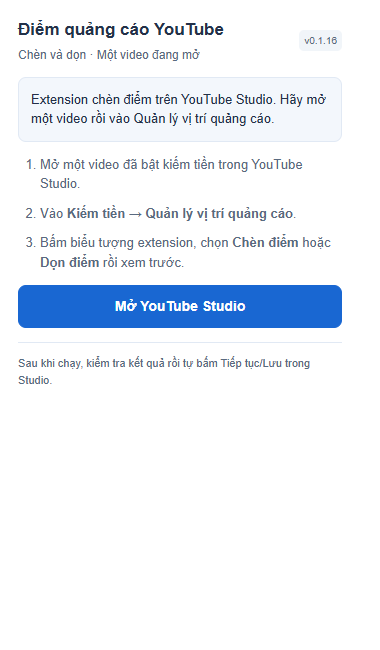
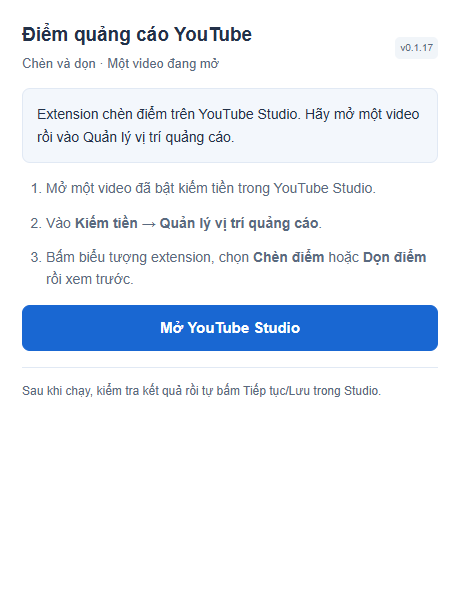
Widen guidance popup and fix initial sizing in v0.1.17

diff --git a/extension/popup.css b/extension/popup.css
@@ -1,13 +1,14 @@
 * { box-sizing: border-box; }
-body { margin: 0; width: 360px; max-width: 100vw; font: 14px/1.5 Arial, sans-serif; color: #233149; background: #fff; color-scheme: light; }
-main { padding: 18px; }
+html { width: 460px; }
+body { margin: 0; width: 100%; font: 15px/1.6 Arial, sans-serif; color: #233149; background: #fff; color-scheme: light; }
+main { padding: 22px; }
 header { display: flex; align-items: center; gap: 8px; }
-h1 { font-size: 17px; line-height: 1.4; margin: 0; }
-.subtitle { font-size: 12px; color: #596a80; margin: 4px 0 0; }
+h1 { font-size: 19px; line-height: 1.4; margin: 0; }
+.subtitle { font-size: 13px; color: #596a80; margin: 5px 0 0; }
 #version { font-size: 10px; color: #596a80; background: #f1f5f9; border-radius: 5px; padding: 3px 5px; margin-left: auto; }
-#status { padding: 12px; border: 1px solid #e1e9f4; border-radius: 8px; background: #f3f7fc; white-space: pre-line; overflow-wrap: anywhere; font-size: 13px; }
+#status { padding: 14px; border: 1px solid #e1e9f4; border-radius: 8px; background: #f3f7fc; white-space: pre-line; overflow-wrap: anywhere; font-size: 14px; }
 #status[data-tone="error"] { background: #fff1f0; border-color: #efc9c7; color: #9b2723; }
-ol { padding-left: 22px; font-size: 13px; color: #596a80; } li { margin-bottom: 10px; }
+ol { padding-left: 24px; font-size: 14px; color: #596a80; } li { margin-bottom: 12px; }
 a, button { display: block; width: 100%; min-height: 42px; border: 1px solid #c4d2e3; border-radius: 8px; padding: 10px; font: inherit; font-weight: 600; text-align: center; }
 a { background: #1967d2; color: white; text-decoration: none; border-color: #1967d2; }
 button { margin-top: 8px; color: #233149; background: #f8fafc; cursor: pointer; }
@@ -15,5 +16,5 @@ button:disabled { opacity: .5; cursor: default; }
 a:focus-visible, button:focus-visible { outline: 2px solid #1967d2; outline-offset: 2px; }
 #copy-status { color: #596a80; font-size: 12px; }
 textarea { width: 100%; height: 130px; margin-top: 8px; padding: 8px; border: 1px solid #c4d2e3; border-radius: 8px; font: 11px monospace; }
-.save-note { margin: 14px 0 0; padding-top: 12px; border-top: 1px solid #e1e9f4; color: #596a80; font-size: 11px; }
+.save-note { margin: 16px 0 0; padding-top: 14px; border-top: 1px solid #e1e9f4; color: #596a80; font-size: 12px; }
 [hidden] { display: none !important; }

diff --git a/extension/popup.html b/extension/popup.html
@@ -8,7 +8,7 @@
 </head>
 <body>
 <main>
-  <header><div><h1>Điểm quảng cáo YouTube</h1><p class="subtitle">Chèn và dọn · Một video đang mở</p></div><span id="version">v0.1.16</span></header>
+  <header><div><h1>Điểm quảng cáo YouTube</h1><p class="subtitle">Chèn và dọn · Một video đang mở</p></div><span id="version">v0.1.17</span></header>
   <p id="status" role="status" aria-live="polite">Đang kiểm tra trang đang mở…</p>
   <section id="guide" hidden>
     <ol>

diff --git a/extension/studio.js b/extension/studio.js
@@ -615,7 +615,7 @@
   function diagnostics() {
     const { scope } = editorScope();
     return {
-      version: "0.1.16",
+      version: "0.1.17",
       lastInsertion,
       editor: scope.localName,
       controls: query(scope, BUTTONS).filter(visible).map((node) => ({ tag: node.localName, label: node.getAttribute("aria-label") || node.getAttribute("title") || node.textContent.trim().slice(0, 100) })),

diff --git a/extension/popup.js b/extension/popup.js
@@ -1,7 +1,7 @@
 (function () {
   "use strict";
   const $ = (id) => document.getElementById(id);
-  const VERSION = globalThis.chrome?.runtime?.getManifest?.()?.version || "0.1.16";
+  const VERSION = globalThis.chrome?.runtime?.getManifest?.()?.version || "0.1.17";
   $("version").textContent = `v${VERSION}`;
   let revision = 0;
   let report = null;

diff --git a/extension/content.js b/extension/content.js
@@ -8,7 +8,7 @@
     return;
   }
   const P = globalThis.MidrollPlanner;
-  const VERSION = "0.1.16";
+  const VERSION = "0.1.17";
   const host = document.createElement("div");
   globalThis.MidrollPanelHost = host;
   host.id = HOST_ID;

diff --git a/README.md b/README.md
@@ -1,14 +1,14 @@
 # Tự động chèn và dọn điểm quảng cáo YouTube
 
-Bản **0.1.16** cho Chrome từ 118 và YouTube Studio tiếng Việt, một video đang mở. Thời lượng đọc tự động; bạn nhập khoảng cách và đoạn đầu/cuối bằng giây. Khi chèn, giữ mọi điểm cũ. Khi dọn, xóa điểm thủ công trong các đoạn đầu/cuối bạn nhập, Đang xem xét/có cảnh báo và lọc các điểm còn lại quá gần, giữ điểm sớm hơn. Luôn giữ mọi điểm tự động và điểm chưa rõ loại. Bạn xem lại và tự Lưu.
+Bản **0.1.17** cho Chrome từ 118 và YouTube Studio tiếng Việt, một video đang mở. Thời lượng đọc tự động; bạn nhập khoảng cách và đoạn đầu/cuối bằng giây. Khi chèn, giữ mọi điểm cũ. Khi dọn, xóa điểm thủ công trong các đoạn đầu/cuối bạn nhập, Đang xem xét/có cảnh báo và lọc các điểm còn lại quá gần, giữ điểm sớm hơn. Luôn giữ mọi điểm tự động và điểm chưa rõ loại. Bạn xem lại và tự Lưu.
 
-Giao diện mới cố định tab và thanh thao tác, gom cài đặt theo chức năng, quy đổi giây sang phút và ghi rõ lý do xóa. Nút chạy hiển thị số điểm trong kế hoạch; khi chạy có tiến độ đã xác nhận và nút Dừng. Tab Dọn giải thích điểm thủ công quá gần điểm tự động ở trước hoặc sau đều được chọn xóa. Sau chạy, giữ kế hoạch để đối chiếu và yêu cầu xem trước lại trước lượt tiếp theo.
+Bảng hướng dẫn ngoài trang chèn quảng cáo rộng 460 px, chữ và khoảng cách lớn hơn. Giao diện cố định tab và thanh thao tác, gom cài đặt theo chức năng, quy đổi giây sang phút và ghi rõ lý do xóa. Nút chạy hiển thị số điểm trong kế hoạch; khi chạy có tiến độ đã xác nhận và nút Dừng. Tab Dọn giải thích điểm thủ công quá gần điểm tự động ở trước hoặc sau đều được chọn xóa. Sau chạy, giữ kế hoạch để đối chiếu và yêu cầu xem trước lại trước lượt tiếp theo.
 
 [Hướng dẫn cài và dùng](extension/HUONG-DAN.md) · [Rà soát toàn bộ](artifacts/AUDIT-0.1.14.md) · [Kiểm chứng](artifacts/VERIFICATION.md) · [Lịch sử](CHANGELOG.md).
 
 ## Tải bản cài
 
-Mở [GitHub Releases](https://github.com/HurioFly/youtube-midroll-manager/releases/latest), tải `Chen-quang-cao-YouTube-v0.1.16.zip`, giải nén vào một thư mục cố định. Trong Chrome, mở `chrome://extensions`, bật **Chế độ dành cho nhà phát triển**, chọn **Tải tiện ích đã giải nén** rồi chọn thư mục có `manifest.json`.
+Mở [GitHub Releases](https://github.com/HurioFly/youtube-midroll-manager/releases/latest), tải `Chen-quang-cao-YouTube-v0.1.17.zip`, giải nén vào một thư mục cố định. Trong Chrome, mở `chrome://extensions`, bật **Chế độ dành cho nhà phát triển**, chọn **Tải tiện ích đã giải nén** rồi chọn thư mục có `manifest.json`.
 
 Repository và bản phát hành là **riêng tư**, cần đăng nhập tài khoản được cấp quyền để tải. Đây là bản phát hành GitHub để cài thủ công. Khi cập nhật, lưu chỉnh sửa đang dở, thay tệp trong thư mục extension, bấm **Tải lại** extension rồi F5 Studio.
 

diff --git a/CHANGELOG.md b/CHANGELOG.md
@@ -1,5 +1,7 @@
 # Lịch sử thay đổi
 
+0.1.17: mở rộng bảng hướng dẫn popup lên 460 px, tăng cỡ chữ và khoảng cách. Đặt chiều rộng cố định trên phần tử gốc, bỏ giới hạn theo viewport để tránh co hẹp khi Chrome đo kích thước popup ban đầu. Kiểm tra thông báo dài, hướng dẫn và viewport khởi tạo 25 px; giữ nguyên bảng chèn/dọn trong Studio.
+
 0.1.16: thiết kế lại popup và bảng Studio, cố định header/tab/thanh thao tác, gom thiết lập, bỏ nút cộng/trừ để đồng nhất ô nhập và quy đổi giây, báo lỗi ngay tại ô nhập, phân biệt nút chèn/dọn và hiển thị số điểm. Thêm tiến độ đã xác nhận, giữ kế hoạch sau chạy để đối chiếu và yêu cầu xem trước lại. Làm rõ neo tự động ở trước/sau và lý do xóa từng mốc. Rút gọn hướng dẫn lặp; sửa phiên bản trong báo cáo lỗi popup. Thêm kiểm tra bố cục nhỏ, bàn phím, tiến độ/Dừng và preview. Giữ nguyên thuật toán, bảo vệ mọi điểm tự động/chưa rõ loại và việc người dùng tự Lưu.
 
 0.1.15: thêm hai ô đoạn đầu/cuối riêng trong tab Dọn điểm, ghi nhớ cài đặt, mặc định 0. Xóa các điểm thủ công ngoài cửa sổ được phép, giữ mốc đúng ranh giới; luôn giữ mọi điểm tự động và chưa rõ loại, kể cả trong hai đoạn loại trừ. Preview ghi lý do, đổi ô nhập hủy preview. Kiểm tra bộ đếm phần nhỏ giây tại ranh giới cuối và dừng trước khi xóa nếu không so sánh được chắc chắn. Quy tắc Đang xem xét/cảnh báo/khoảng cách và việc tự Lưu giữ nguyên.

diff --git a/artifacts/VERIFICATION.md b/artifacts/VERIFICATION.md
@@ -1,3 +1,16 @@
+# Kiểm chứng bản 0.1.17
+
+Mở rộng bảng hướng dẫn popup lên 460 px; tăng cỡ chữ và khoảng cách. Bỏ max-width theo viewport, đặt chiều rộng phần tử gốc để không phụ thuộc vùng hiển thị nhỏ khi khởi tạo. Bảng chèn/dọn trong Studio chỉ đổi số phiên bản.
+
+- 92 kiểm thử logic và 7 popup browser đạt trên Chrome headless/profile tạm với Chrome API mô phỏng.
+- Kiểm tra hướng dẫn ngoài Studio, trang danh sách Studio, mở bảng thành công, lỗi và thử lại, thiếu background, thông báo dài không tràn ngang. Bước hướng dẫn và nút Mở Studio nằm trong vùng 460×600. Với viewport ban đầu 25 px, phần tử gốc và body vẫn rộng 460 px; trở về 460 px không tràn ngang.
+- Đã xem ảnh popup-guidance-v0.1.17.png và popup-error-v0.1.17.png. Ảnh v0.1.16 được giữ nguyên.
[1 lines of base64/hex data omitted]
+
+Chưa kiểm chứng trực tiếp cửa sổ toolbar popup trên Chrome đang đăng nhập của người dùng. Không thay thuật toán, quyền, bảo vệ điểm tự động/chưa rõ loại hoặc việc tự Lưu. Các phần dưới là lịch sử.
+
+---
+
 # Kiểm chứng bản 0.1.16
 
 Thiết kế lại toàn bộ giao diện popup và bảng trong Studio, đồng nhất các ô nhập trực tiếp số giây và bỏ nút cộng/trừ. Thuật toán và cơ chế chạy nền giữ nguyên.

diff --git a/extension/HUONG-DAN.md b/extension/HUONG-DAN.md
@@ -1,4 +1,4 @@
-# Chèn và dọn điểm quảng cáo YouTube — 0.1.16
+# Chèn và dọn điểm quảng cáo YouTube — 0.1.17
 
 Dành cho Chrome từ 118, YouTube Studio tiếng Việt, một video đang mở. Bạn xem lại và tự bấm Tiếp tục/Lưu. Không cần API key, OAuth hoặc cài Node.js.
 
@@ -7,7 +7,7 @@ Dành cho Chrome từ 118, YouTube Studio tiếng Việt, một video đang mở
 1. Giải nén ZIP vào một thư mục cố định, có `manifest.json` ngay bên trong.
 2. Mở `chrome://extensions`, bật **Chế độ dành cho nhà phát triển**, chọn **Tải tiện ích đã giải nén**, rồi chọn thư mục đó.
 3. Khi cập nhật, thay tệp trong đúng thư mục đã cài và bấm **Tải lại** extension. Nếu cài từ thư mục mã nguồn `extension`, chỉ cần Tải lại.
-4. Lưu các chỉnh sửa Studio muốn giữ trước khi F5 trang. Mở lại trình quảng cáo và kiểm tra bảng có **v0.1.16**.
+4. Lưu các chỉnh sửa Studio muốn giữ trước khi F5 trang. Mở lại trình quảng cáo và kiểm tra bảng có **v0.1.17**.
 
 Extension cần quyền debugger để giữ riêng tab Studio hoạt động khi bạn dùng ứng dụng khác. Chrome hiện thanh thông báo trong lúc chạy; phiên kết thúc khi xong, dừng hoặc gặp lỗi. Chấp nhận quyền/bật lại extension nếu Chrome yêu cầu.
 
